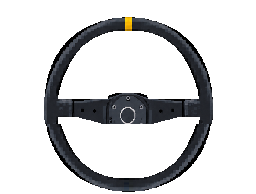
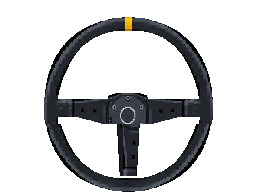
959: volante de 3 raios com o raio de baixo
O raio de baixo ficava cortado na borda da tela e a complementação deixou o
volante só com os raios laterais. complete_wheel.py ganha --raio-baixo, que
desenha o raio com a textura do raio lateral girada 90° (com os furos).

Claude-Session: https://claude.ai/code/session_01MLD9VR7gkmY4w6a9beZcp6

Changed region(s): [[0.4375, 0.6186, 0.5625, 0.9278]]

diff --git a/tools/ref/complete_wheel.py b/tools/ref/complete_wheel.py
@@ -5,7 +5,9 @@ baixo vem da de cima pela simetria em torno do centro (sem a marca colorida das 
 iria parar nas 6 h); os raios e o miolo continuam na direção radial até encontrar o aro.
 
 Uso: python3 tools/ref/complete_wheel.py <volante.png> <centro_x> <centro_y> [--so-aro]
-  --so-aro: não prolonga raios (volantes só com raios laterais, como o do 959)
+  --so-aro: não prolonga raios (o que está cortado embaixo não é raio)
+  --raio-baixo=L0,L1: desenha o raio de baixo (largura junto ao miolo e junto ao aro, em
+      pixels), com a textura do raio lateral girada 90° (volante de 3 raios, como o do 959)
 """
 import sys
 
@@ -14,6 +16,8 @@ from PIL import Image
 
 path, px, py = sys.argv[1], float(sys.argv[2]), float(sys.argv[3])
 only_rim = '--so-aro' in sys.argv
+low = next((a.split('=')[1] for a in sys.argv if a.startswith('--raio-baixo=')), None)
+ASPECT = 8 / 7  # pixel mais largo que alto: o giro de 90° é feito em coordenadas de tela
 im = np.array(Image.open(path).convert('RGBA'))
 H, W = im.shape[:2]
 op = im[..., 3] > 0
@@ -68,5 +72,23 @@ for y in range(H, H2):
                 qs = ((sx - px) / rx_i) ** 2 + ((sy - py) / ry_i) ** 2
                 if qs < 0.92:
                     out[y, x] = im[sy, sx]
+if low:
+    w0, w1 = map(float, low.split(','))
+    for y in range(int(py) + 1, H2):
+        for x in range(W):
+            dx, dy = x - px, y - py
+            if out[y, x, 3] or ((dx / rx_i) ** 2 + (dy / ry_i) ** 2) >= 0.97:
+                continue
+            hw = (w0 + (w1 - w0) * min(1, dy / ry_i)) / 2
+            if abs(dx) > hw:
+                continue
+            # o mesmo ponto no raio da esquerda (girado 90° na tela)
+            sx, sy = int(round(px - dy / ASPECT)), int(round(py + dx * ASPECT))
+            if 0 <= sx < W and 0 <= sy < H and op[sy, sx]:
+                out[y, x] = im[sy, sx]
+            else:
+                out[y, x] = (28, 28, 32, 255)
+            if abs(abs(dx) - hw) < 0.75:  # contorno escuro nas bordas do raio
+                out[y, x, :3] = (10, 10, 12)
 Image.fromarray(out, 'RGBA').save(path)
 print(path, (W, H2), 'aro', round(rx_o, 1), round(ry_o, 1), round(rx_i, 1), round(ry_i, 1))
